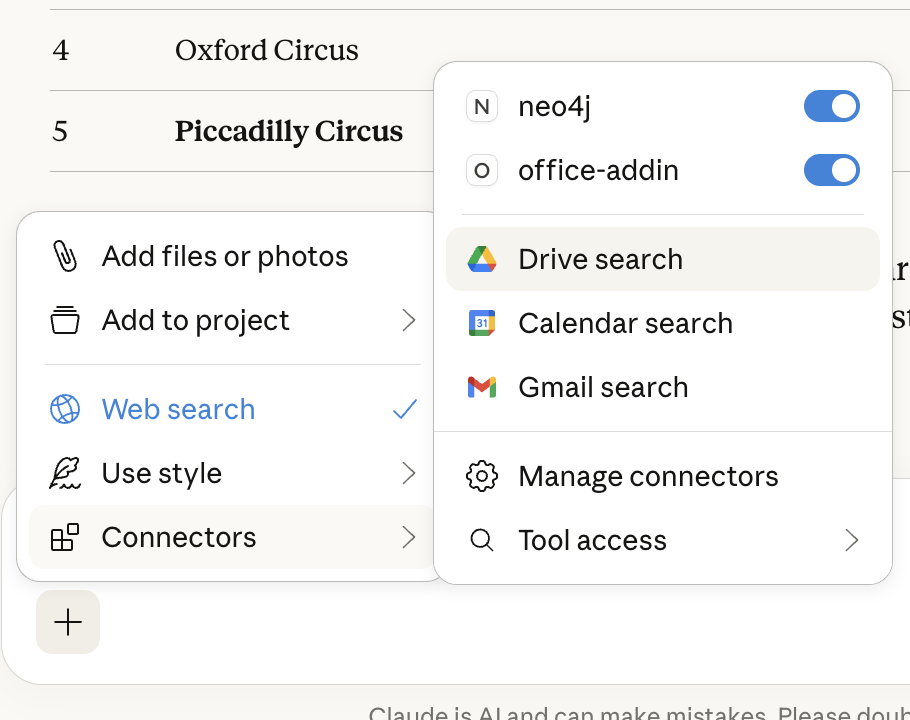
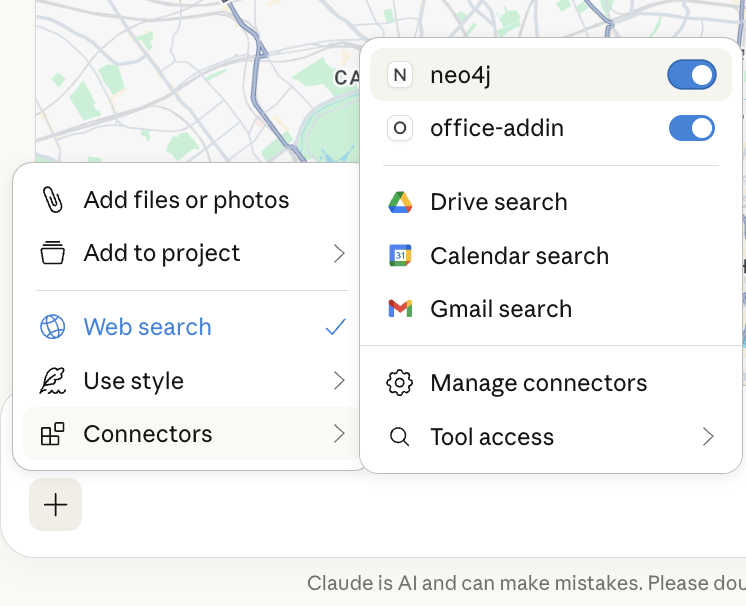
updated

diff --git a/01b-neo4j-NLP-AI /README.md b/01b-neo4j-NLP-AI /README.md
@@ -38,8 +38,19 @@ Add the following to claude_desktop_config.json:
 ```
 
 # Start Claude Desktop 
-![01-create_dataset](./images/neo4j_mcp.png)
+![01-MCP](./images/neo4j_mcp.png)
 
 # Ask questions 
+
+![01-Schema](./images/show me schema.png)
+
+
+
+![01-Query1](./images/query_1.png)
+
+
+
+![01-Query2](./images/query_2.png)
+
 
 
